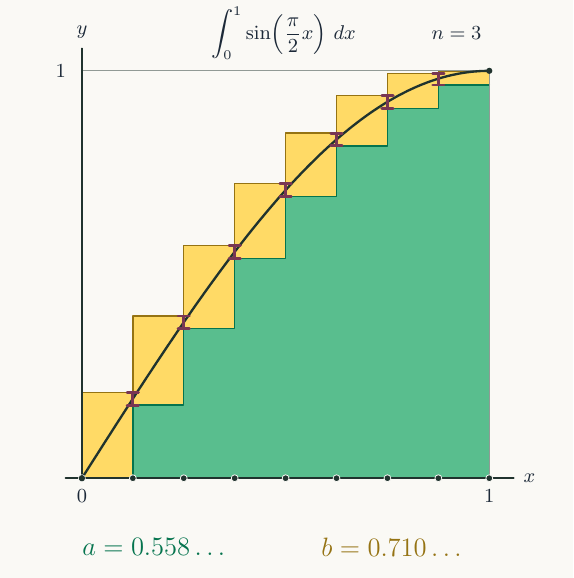
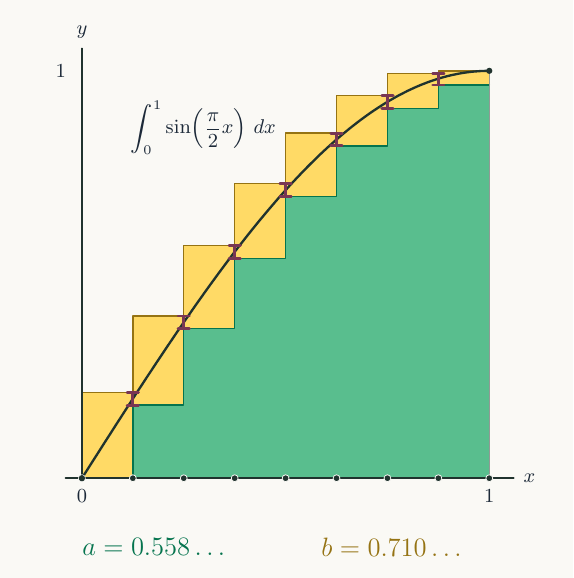
Move the sine integral beside the curve and remove the stage label and top guide

diff --git a/blueprint/src/assets/tikz/interval-sine-integral-stage/frame-4.tex b/blueprint/src/assets/tikz/interval-sine-integral-stage/frame-4.tex
@@ -52,7 +52,7 @@
 \fill[sharedfill] (0,0) -- (0,0) -- (0.125,0) -- (0.125,0.1794) -- (0.25,0.1794) -- (0.25,0.367) -- (0.375,0.367) -- (0.375,0.5399) -- (0.5,0.5399) -- (0.5,0.6915) -- (0.625,0.6915) -- (0.625,0.8158) -- (0.75,0.8158) -- (0.75,0.9082) -- (0.875,0.9082) -- (0.875,0.9651) -- (1,0.9651) -- (1,0) -- cycle;
 \draw[lowerbound,line width=.65pt] (0,0) -- (0.125,0) -- (0.125,0.1794) -- (0.25,0.1794) -- (0.25,0.367) -- (0.375,0.367) -- (0.375,0.5399) -- (0.5,0.5399) -- (0.5,0.6915) -- (0.625,0.6915) -- (0.625,0.8158) -- (0.75,0.8158) -- (0.75,0.9082) -- (0.875,0.9082) -- (0.875,0.9651) -- (1,0.9651);
 \draw[upperbound,line width=.65pt] (0,0.2108) -- (0.125,0.2108) -- (0.125,0.3983) -- (0.25,0.3983) -- (0.25,0.5712) -- (0.375,0.5712) -- (0.375,0.7228) -- (0.5,0.7228) -- (0.5,0.8471) -- (0.625,0.8471) -- (0.625,0.9395) -- (0.75,0.9395) -- (0.75,0.9941) -- (0.875,0.9941) -- (0.875,1) -- (1,1);
-\draw[graph!48!paper,line width=.55pt] (0,1) -- (1,1) -- (1,0);
+\draw[graph!48!paper,line width=.55pt] (1,1) -- (1,0);
 \draw[graph,line width=.8pt] (-.04,0) -- (1.06,0);
 \draw[graph,line width=.8pt] (0,0) -- (0,1.055);
 \draw[graph,line width=1.05pt] plot[smooth] coordinates {(0,0) (0.0083,0.0131) (0.0167,0.0262) (0.025,0.0393) (0.0333,0.0523) (0.0417,0.0654) (0.05,0.0785) (0.0583,0.0915) (0.0667,0.1045) (0.075,0.1175) (0.0833,0.1305) (0.0917,0.1435) (0.1,0.1564) (0.1083,0.1693) (0.1167,0.1822) (0.125,0.1951) (0.1333,0.2079) (0.1417,0.2207) (0.15,0.2334) (0.1583,0.2462) (0.1667,0.2588) (0.175,0.2714) (0.1833,0.284) (0.1917,0.2965) (0.2,0.309) (0.2083,0.3214) (0.2167,0.3338) (0.225,0.3461) (0.2333,0.3584) (0.2417,0.3706) (0.25,0.3827) (0.2583,0.3947) (0.2667,0.4067) (0.275,0.4187) (0.2833,0.4305) (0.2917,0.4423) (0.3,0.454) (0.3083,0.4656) (0.3167,0.4772) (0.325,0.4886) (0.3333,0.5) (0.3417,0.5113) (0.35,0.5225) (0.3583,0.5336) (0.3667,0.5446) (0.375,0.5556) (0.3833,0.5664) (0.3917,0.5771) (0.4,0.5878) (0.4083,0.5983) (0.4167,0.6088) (0.425,0.6191) (0.4333,0.6293) (0.4417,0.6394) (0.45,0.6494) (0.4583,0.6593) (0.4667,0.6691) (0.475,0.6788) (0.4833,0.6884) (0.4917,0.6978) (0.5,0.7071) (0.5083,0.7163) (0.5167,0.7254) (0.525,0.7343) (0.5333,0.7431) (0.5417,0.7518) (0.55,0.7604) (0.5583,0.7688) (0.5667,0.7771) (0.575,0.7853) (0.5833,0.7934) (0.5917,0.8013) (0.6,0.809) (0.6083,0.8166) (0.6167,0.8241) (0.625,0.8315) (0.6333,0.8387) (0.6417,0.8457) (0.65,0.8526) (0.6583,0.8594) (0.6667,0.866) (0.675,0.8725) (0.6833,0.8788) (0.6917,0.885) (0.7,0.891) (0.7083,0.8969) (0.7167,0.9026) (0.725,0.9081) (0.7333,0.9135) (0.7417,0.9188) (0.75,0.9239) (0.7583,0.9288) (0.7667,0.9336) (0.775,0.9382) (0.7833,0.9426) (0.7917,0.9469) (0.8,0.9511) (0.8083,0.955) (0.8167,0.9588) (0.825,0.9625) (0.8333,0.9659) (0.8417,0.9692) (0.85,0.9724) (0.8583,0.9753) (0.8667,0.9781) (0.875,0.9808) (0.8833,0.9833) (0.8917,0.9856) (0.9,0.9877) (0.9083,0.9897) (0.9167,0.9914) (0.925,0.9931) (0.9333,0.9945) (0.9417,0.9958) (0.95,0.9969) (0.9583,0.9979) (0.9667,0.9986) (0.975,0.9992) (0.9833,0.9997) (0.9917,0.9999) (1,1)};
@@ -93,9 +93,8 @@
 \draw[errorbar,opacity=1,line width=1.25pt] (0.875,0.9651) -- (0.875,0.9941);
 \draw[errorbar,opacity=1,line width=1.25pt] (0.861,0.9651) -- (0.889,0.9651);
 \draw[errorbar,opacity=1,line width=1.25pt] (0.861,0.9941) -- (0.889,0.9941);
+\node[font=\small,text=ink,anchor=south east] at (0.495,0.775) {\(\displaystyle\int_0^1\sin\!\left(\frac{\pi}{2}x\right)\,dx\)};
 \end{scope}
-\node[font=\small,text=ink] at (128,246) {\(\displaystyle\int_0^1\sin\!\left(\frac{\pi}{2}x\right)\,dx\)};
-\node[font=\small,text=ink,anchor=east] at (221,246) {\(n=3\)};
 \node[anchor=west,inner sep=0pt,text=lowerbound,font=\large] at (37,14) {\(a=0.558\ldots\)};
 \node[anchor=west,inner sep=0pt,text=upperbound,font=\large] at (145,14) {\(b=0.710\ldots\)};
 \end{tikzpicture}

diff --git a/blueprint/src/assets/tikz/interval-sine-integral-stage/frame-3.tex b/blueprint/src/assets/tikz/interval-sine-integral-stage/frame-3.tex
@@ -52,7 +52,7 @@
 \fill[sharedfill] (0,0) -- (0,0) -- (0.25,0) -- (0.25,0.3513) -- (0.5,0.3513) -- (0.5,0.6758) -- (0.75,0.6758) -- (0.75,0.8926) -- (1,0.8926) -- (1,0) -- cycle;
 \draw[lowerbound,line width=.65pt] (0,0) -- (0.25,0) -- (0.25,0.3513) -- (0.5,0.3513) -- (0.5,0.6758) -- (0.75,0.6758) -- (0.75,0.8926) -- (1,0.8926);
 \draw[upperbound,line width=.65pt] (0,0.4141) -- (0.25,0.4141) -- (0.25,0.7385) -- (0.5,0.7385) -- (0.5,0.9553) -- (0.75,0.9553) -- (0.75,1) -- (1,1);
-\draw[graph!48!paper,line width=.55pt] (0,1) -- (1,1) -- (1,0);
+\draw[graph!48!paper,line width=.55pt] (1,1) -- (1,0);
 \draw[graph,line width=.8pt] (-.04,0) -- (1.06,0);
 \draw[graph,line width=.8pt] (0,0) -- (0,1.055);
 \draw[graph,line width=1.05pt] plot[smooth] coordinates {(0,0) (0.0083,0.0131) (0.0167,0.0262) (0.025,0.0393) (0.0333,0.0523) (0.0417,0.0654) (0.05,0.0785) (0.0583,0.0915) (0.0667,0.1045) (0.075,0.1175) (0.0833,0.1305) (0.0917,0.1435) (0.1,0.1564) (0.1083,0.1693) (0.1167,0.1822) (0.125,0.1951) (0.1333,0.2079) (0.1417,0.2207) (0.15,0.2334) (0.1583,0.2462) (0.1667,0.2588) (0.175,0.2714) (0.1833,0.284) (0.1917,0.2965) (0.2,0.309) (0.2083,0.3214) (0.2167,0.3338) (0.225,0.3461) (0.2333,0.3584) (0.2417,0.3706) (0.25,0.3827) (0.2583,0.3947) (0.2667,0.4067) (0.275,0.4187) (0.2833,0.4305) (0.2917,0.4423) (0.3,0.454) (0.3083,0.4656) (0.3167,0.4772) (0.325,0.4886) (0.3333,0.5) (0.3417,0.5113) (0.35,0.5225) (0.3583,0.5336) (0.3667,0.5446) (0.375,0.5556) (0.3833,0.5664) (0.3917,0.5771) (0.4,0.5878) (0.4083,0.5983) (0.4167,0.6088) (0.425,0.6191) (0.4333,0.6293) (0.4417,0.6394) (0.45,0.6494) (0.4583,0.6593) (0.4667,0.6691) (0.475,0.6788) (0.4833,0.6884) (0.4917,0.6978) (0.5,0.7071) (0.5083,0.7163) (0.5167,0.7254) (0.525,0.7343) (0.5333,0.7431) (0.5417,0.7518) (0.55,0.7604) (0.5583,0.7688) (0.5667,0.7771) (0.575,0.7853) (0.5833,0.7934) (0.5917,0.8013) (0.6,0.809) (0.6083,0.8166) (0.6167,0.8241) (0.625,0.8315) (0.6333,0.8387) (0.6417,0.8457) (0.65,0.8526) (0.6583,0.8594) (0.6667,0.866) (0.675,0.8725) (0.6833,0.8788) (0.6917,0.885) (0.7,0.891) (0.7083,0.8969) (0.7167,0.9026) (0.725,0.9081) (0.7333,0.9135) (0.7417,0.9188) (0.75,0.9239) (0.7583,0.9288) (0.7667,0.9336) (0.775,0.9382) (0.7833,0.9426) (0.7917,0.9469) (0.8,0.9511) (0.8083,0.955) (0.8167,0.9588) (0.825,0.9625) (0.8333,0.9659) (0.8417,0.9692) (0.85,0.9724) (0.8583,0.9753) (0.8667,0.9781) (0.875,0.9808) (0.8833,0.9833) (0.8917,0.9856) (0.9,0.9877) (0.9083,0.9897) (0.9167,0.9914) (0.925,0.9931) (0.9333,0.9945) (0.9417,0.9958) (0.95,0.9969) (0.9583,0.9979) (0.9667,0.9986) (0.975,0.9992) (0.9833,0.9997) (0.9917,0.9999) (1,1)};
@@ -77,9 +77,8 @@
 \draw[errorbar,opacity=1,line width=1.25pt] (0.75,0.8926) -- (0.75,0.9553);
 \draw[errorbar,opacity=1,line width=1.25pt] (0.736,0.8926) -- (0.764,0.8926);
 \draw[errorbar,opacity=1,line width=1.25pt] (0.736,0.9553) -- (0.764,0.9553);
+\node[font=\small,text=ink,anchor=south east] at (0.495,0.775) {\(\displaystyle\int_0^1\sin\!\left(\frac{\pi}{2}x\right)\,dx\)};
 \end{scope}
-\node[font=\small,text=ink] at (128,246) {\(\displaystyle\int_0^1\sin\!\left(\frac{\pi}{2}x\right)\,dx\)};
-\node[font=\small,text=ink,anchor=east] at (221,246) {\(n=2\)};
 \node[anchor=west,inner sep=0pt,text=lowerbound,font=\large] at (37,14) {\(a=0.479\ldots\)};
 \node[anchor=west,inner sep=0pt,text=upperbound,font=\large] at (145,14) {\(b=0.776\ldots\)};
 \end{tikzpicture}

diff --git a/blueprint/src/assets/tikz/interval-sine-integral-stage/frame-2.tex b/blueprint/src/assets/tikz/interval-sine-integral-stage/frame-2.tex
@@ -52,7 +52,7 @@
 \fill[sharedfill] (0,0) -- (0,0) -- (0.5,0) -- (0.5,0.6445) -- (1,0.6445) -- (1,0) -- cycle;
 \draw[lowerbound,line width=.65pt] (0,0) -- (0.5,0) -- (0.5,0.6445) -- (1,0.6445);
 \draw[upperbound,line width=.65pt] (0,0.7705) -- (0.5,0.7705) -- (0.5,1) -- (1,1);
-\draw[graph!48!paper,line width=.55pt] (0,1) -- (1,1) -- (1,0);
+\draw[graph!48!paper,line width=.55pt] (1,1) -- (1,0);
 \draw[graph,line width=.8pt] (-.04,0) -- (1.06,0);
 \draw[graph,line width=.8pt] (0,0) -- (0,1.055);
 \draw[graph,line width=1.05pt] plot[smooth] coordinates {(0,0) (0.0083,0.0131) (0.0167,0.0262) (0.025,0.0393) (0.0333,0.0523) (0.0417,0.0654) (0.05,0.0785) (0.0583,0.0915) (0.0667,0.1045) (0.075,0.1175) (0.0833,0.1305) (0.0917,0.1435) (0.1,0.1564) (0.1083,0.1693) (0.1167,0.1822) (0.125,0.1951) (0.1333,0.2079) (0.1417,0.2207) (0.15,0.2334) (0.1583,0.2462) (0.1667,0.2588) (0.175,0.2714) (0.1833,0.284) (0.1917,0.2965) (0.2,0.309) (0.2083,0.3214) (0.2167,0.3338) (0.225,0.3461) (0.2333,0.3584) (0.2417,0.3706) (0.25,0.3827) (0.2583,0.3947) (0.2667,0.4067) (0.275,0.4187) (0.2833,0.4305) (0.2917,0.4423) (0.3,0.454) (0.3083,0.4656) (0.3167,0.4772) (0.325,0.4886) (0.3333,0.5) (0.3417,0.5113) (0.35,0.5225) (0.3583,0.5336) (0.3667,0.5446) (0.375,0.5556) (0.3833,0.5664) (0.3917,0.5771) (0.4,0.5878) (0.4083,0.5983) (0.4167,0.6088) (0.425,0.6191) (0.4333,0.6293) (0.4417,0.6394) (0.45,0.6494) (0.4583,0.6593) (0.4667,0.6691) (0.475,0.6788) (0.4833,0.6884) (0.4917,0.6978) (0.5,0.7071) (0.5083,0.7163) (0.5167,0.7254) (0.525,0.7343) (0.5333,0.7431) (0.5417,0.7518) (0.55,0.7604) (0.5583,0.7688) (0.5667,0.7771) (0.575,0.7853) (0.5833,0.7934) (0.5917,0.8013) (0.6,0.809) (0.6083,0.8166) (0.6167,0.8241) (0.625,0.8315) (0.6333,0.8387) (0.6417,0.8457) (0.65,0.8526) (0.6583,0.8594) (0.6667,0.866) (0.675,0.8725) (0.6833,0.8788) (0.6917,0.885) (0.7,0.891) (0.7083,0.8969) (0.7167,0.9026) (0.725,0.9081) (0.7333,0.9135) (0.7417,0.9188) (0.75,0.9239) (0.7583,0.9288) (0.7667,0.9336) (0.775,0.9382) (0.7833,0.9426) (0.7917,0.9469) (0.8,0.9511) (0.8083,0.955) (0.8167,0.9588) (0.825,0.9625) (0.8333,0.9659) (0.8417,0.9692) (0.85,0.9724) (0.8583,0.9753) (0.8667,0.9781) (0.875,0.9808) (0.8833,0.9833) (0.8917,0.9856) (0.9,0.9877) (0.9083,0.9897) (0.9167,0.9914) (0.925,0.9931) (0.9333,0.9945) (0.9417,0.9958) (0.95,0.9969) (0.9583,0.9979) (0.9667,0.9986) (0.975,0.9992) (0.9833,0.9997) (0.9917,0.9999) (1,1)};
@@ -69,9 +69,8 @@
 \draw[errorbar,opacity=1,line width=1.25pt] (0.5,0.6445) -- (0.5,0.7705);
 \draw[errorbar,opacity=1,line width=1.25pt] (0.486,0.6445) -- (0.514,0.6445);
 \draw[errorbar,opacity=1,line width=1.25pt] (0.486,0.7705) -- (0.514,0.7705);
+\node[font=\small,text=ink,anchor=south east] at (0.495,0.775) {\(\displaystyle\int_0^1\sin\!\left(\frac{\pi}{2}x\right)\,dx\)};
 \end{scope}
-\node[font=\small,text=ink] at (128,246) {\(\displaystyle\int_0^1\sin\!\left(\frac{\pi}{2}x\right)\,dx\)};
-\node[font=\small,text=ink,anchor=east] at (221,246) {\(n=1\)};
 \node[anchor=west,inner sep=0pt,text=lowerbound,font=\large] at (37,14) {\(a=0.322\ldots\)};
 \node[anchor=west,inner sep=0pt,text=upperbound,font=\large] at (145,14) {\(b=0.885\ldots\)};
 \end{tikzpicture}

diff --git a/blueprint/src/assets/tikz/interval-sine-integral-stage/frame-1.tex b/blueprint/src/assets/tikz/interval-sine-integral-stage/frame-1.tex
@@ -52,7 +52,7 @@
 \fill[sharedfill] (0,0) -- (0,0) -- (1,0) -- (1,0) -- cycle;
 \draw[lowerbound,line width=.65pt] (0,0) -- (1,0);
 \draw[upperbound,line width=.65pt] (0,1) -- (1,1);
-\draw[graph!48!paper,line width=.55pt] (0,1) -- (1,1) -- (1,0);
+\draw[graph!48!paper,line width=.55pt] (1,1) -- (1,0);
 \draw[graph,line width=.8pt] (-.04,0) -- (1.06,0);
 \draw[graph,line width=.8pt] (0,0) -- (0,1.055);
 \draw[graph,line width=1.05pt] plot[smooth] coordinates {(0,0) (0.0083,0.0131) (0.0167,0.0262) (0.025,0.0393) (0.0333,0.0523) (0.0417,0.0654) (0.05,0.0785) (0.0583,0.0915) (0.0667,0.1045) (0.075,0.1175) (0.0833,0.1305) (0.0917,0.1435) (0.1,0.1564) (0.1083,0.1693) (0.1167,0.1822) (0.125,0.1951) (0.1333,0.2079) (0.1417,0.2207) (0.15,0.2334) (0.1583,0.2462) (0.1667,0.2588) (0.175,0.2714) (0.1833,0.284) (0.1917,0.2965) (0.2,0.309) (0.2083,0.3214) (0.2167,0.3338) (0.225,0.3461) (0.2333,0.3584) (0.2417,0.3706) (0.25,0.3827) (0.2583,0.3947) (0.2667,0.4067) (0.275,0.4187) (0.2833,0.4305) (0.2917,0.4423) (0.3,0.454) (0.3083,0.4656) (0.3167,0.4772) (0.325,0.4886) (0.3333,0.5) (0.3417,0.5113) (0.35,0.5225) (0.3583,0.5336) (0.3667,0.5446) (0.375,0.5556) (0.3833,0.5664) (0.3917,0.5771) (0.4,0.5878) (0.4083,0.5983) (0.4167,0.6088) (0.425,0.6191) (0.4333,0.6293) (0.4417,0.6394) (0.45,0.6494) (0.4583,0.6593) (0.4667,0.6691) (0.475,0.6788) (0.4833,0.6884) (0.4917,0.6978) (0.5,0.7071) (0.5083,0.7163) (0.5167,0.7254) (0.525,0.7343) (0.5333,0.7431) (0.5417,0.7518) (0.55,0.7604) (0.5583,0.7688) (0.5667,0.7771) (0.575,0.7853) (0.5833,0.7934) (0.5917,0.8013) (0.6,0.809) (0.6083,0.8166) (0.6167,0.8241) (0.625,0.8315) (0.6333,0.8387) (0.6417,0.8457) (0.65,0.8526) (0.6583,0.8594) (0.6667,0.866) (0.675,0.8725) (0.6833,0.8788) (0.6917,0.885) (0.7,0.891) (0.7083,0.8969) (0.7167,0.9026) (0.725,0.9081) (0.7333,0.9135) (0.7417,0.9188) (0.75,0.9239) (0.7583,0.9288) (0.7667,0.9336) (0.775,0.9382) (0.7833,0.9426) (0.7917,0.9469) (0.8,0.9511) (0.8083,0.955) (0.8167,0.9588) (0.825,0.9625) (0.8333,0.9659) (0.8417,0.9692) (0.85,0.9724) (0.8583,0.9753) (0.8667,0.9781) (0.875,0.9808) (0.8833,0.9833) (0.8917,0.9856) (0.9,0.9877) (0.9083,0.9897) (0.9167,0.9914) (0.925,0.9931) (0.9333,0.9945) (0.9417,0.9958) (0.95,0.9969) (0.9583,0.9979) (0.9667,0.9986) (0.975,0.9992) (0.9833,0.9997) (0.9917,0.9999) (1,1)};
@@ -65,9 +65,8 @@
 \filldraw[fill=graph,draw=paper,line width=.35pt] (1,0) circle[radius=1.55pt];
 \fill[graph] (0,0) circle[radius=1.4pt];
 \fill[graph] (1,1) circle[radius=1.4pt];
+\node[font=\small,text=ink,anchor=south east] at (0.495,0.775) {\(\displaystyle\int_0^1\sin\!\left(\frac{\pi}{2}x\right)\,dx\)};
 \end{scope}
-\node[font=\small,text=ink] at (128,246) {\(\displaystyle\int_0^1\sin\!\left(\frac{\pi}{2}x\right)\,dx\)};
-\node[font=\small,text=ink,anchor=east] at (221,246) {\(n=0\)};
 \node[anchor=west,inner sep=0pt,text=lowerbound,font=\large] at (37,14) {\(a=0\)};
 \node[anchor=west,inner sep=0pt,text=upperbound,font=\large] at (145,14) {\(b=1\)};
 \end{tikzpicture}

diff --git a/scripts/generate_tikz_animations.py b/scripts/generate_tikz_animations.py
@@ -378,7 +378,7 @@ def sine_frame(cells: int, phase: str, progress: float) -> str:
     # Only the reference curve uses floating-point sine. All construction lines use the boxes.
     curve = [(i/120, math.sin(math.pi*i/240)) for i in range(121)]
     out += [
-        r"\draw[graph!48!paper,line width=.55pt] (0,1) -- (1,1) -- (1,0);",
+        r"\draw[graph!48!paper,line width=.55pt] (1,1) -- (1,0);",
         r"\draw[graph,line width=.8pt] (-.04,0) -- (1.06,0);",
         r"\draw[graph,line width=.8pt] (0,0) -- (0,1.055);",
         rf"\draw[graph,line width=1.05pt] plot[smooth] coordinates {{{path(curve)}}};",
@@ -398,11 +398,8 @@ def sine_frame(cells: int, phase: str, progress: float) -> str:
             for cap in (lo, hi):
                 out.append(rf"\draw[errorbar,opacity={q(alpha)},line width=1.25pt] "
                            rf"({q(x-.014)},{q(cap)}) -- ({q(x+.014)},{q(cap)});")
-    out += [
-        r"\end{scope}",
-        n(128, 246, r"\(\displaystyle\int_0^1\sin\!\left(\frac{\pi}{2}x\right)\,dx\)"),
-        n(221, 246, rf"\(n={stage}\)", "anchor=east"),
-    ]
+    out.append(n(.495, .775, r"\(\displaystyle\int_0^1\sin\!\left(\frac{\pi}{2}x\right)\,dx\)", "anchor=south east"))
+    out.append(r"\end{scope}")
     count = len(active)-1
     out.extend(rectangle_bound_labels(sum(shaded[x][0] for x in active[:-1])/count,
                                       sum(shaded[x][1] for x in active[1:])/count))
